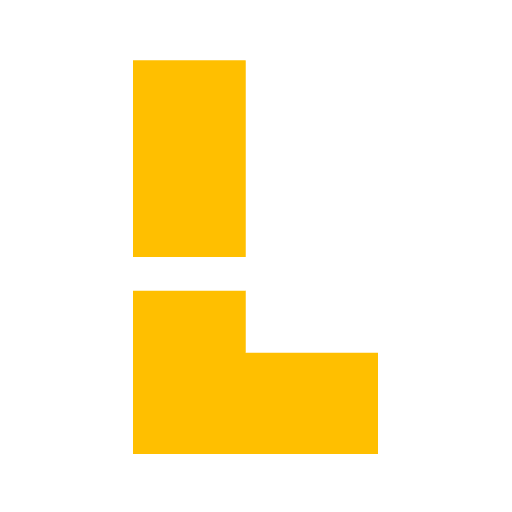
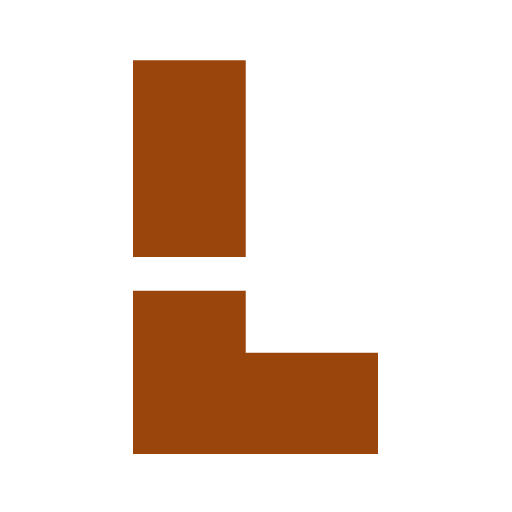
feat: 카테고리 필터, 토스트 알림, 404 페이지, 컴포넌트 분리

Changed region(s): [[0.25, 0.5625, 0.75, 0.9062], [0.25, 0.0938, 0.5, 0.5]]

diff --git a/src/pages/Home.jsx b/src/pages/Home.jsx
@@ -1,24 +1,35 @@
-import { useState, useEffect } from "react";
-import { Link } from "react-router-dom";
-import { getProducts } from "../api/productApi";
-import useCartStore from "../store/cartStore";
+import { useState } from "react";
+import { motion, AnimatePresence } from "framer-motion";
 import SkeletonCard from "../components/SkeletonCard";
 import Header from "../components/Header";
 import Footer from "../components/Footer";
 import Hero from "../components/Hero";
+import ProductCard from "../components/ProductCard";
+import useProducts from "../hooks/useProducts";
 
 function Home() {
-  const [products, setProducts] = useState([]);
-  const [loading, setLoading] = useState(true);
-  const [error, setError] = useState(null);
-  const { addItem } = useCartStore();
+  const { products, loading, error } = useProducts();
+  const [activeCategory, setActiveCategory] = useState("전체");
+  const CATEGORIES = [
+    "전체",
+    "cushion",
+    "vase",
+    "candle",
+    "storage",
+    "tray",
+    "pot",
+    "mirror",
+    "furniture",
+    "flower",
+    "coaster",
+    "wall",
+    "textile",
+  ];
 
-  useEffect(() => {
-    getProducts()
-      .then((data) => setProducts(data))
-      .catch((err) => setError(err.message))
-      .finally(() => setLoading(false));
-  }, []);
+  const filtered =
+    activeCategory === "전체"
+      ? products
+      : products.filter((p) => p.category === activeCategory);
 
   if (loading)
     return (
@@ -52,36 +63,48 @@ function Home() {
 
       <Hero />
 
-      <section className="px-6 pb-16">
-        <div className="grid grid-cols-2 md:grid-cols-3 gap-6">
-          {products.map((product) => (
-            <div key={product.id} className="group">
-              <Link to={`/product/${product.id}`}>
-                <div className="overflow-hidden rounded-xl bg-gray-50 dark:bg-dark-card aspect-square mb-3">
-                  <img
-                    src={product.image}
-                    alt={product.name}
-                    className="w-full h-full object-cover group-hover:scale-105 transition-transform duration-300"
-                  />
-                </div>
-                <p className="text-md font-medium dark:text-white">
-                  {product.name}
-                </p>
-                <p className="text-md text-gray-400 mt-1">
-                  {product.price.toLocaleString()}원
-                </p>
-              </Link>
-              <button
-                onClick={() => addItem(product)}
-                className="mt-2 w-full text-xs border border-black dark:border-white dark:text-white py-2 rounded-lg hover:bg-black hover:text-white dark:hover:bg-white dark:hover:text-black transition-colors duration-200"
-              >
-                장바구니 담기
-              </button>
-            </div>
+      <section className="px-6 mb-6">
+        <div className="flex gap-2 overflow-x-auto pb-2 scrollbar-hide">
+          {CATEGORIES.map((cat) => (
+            <button
+              key={cat}
+              onClick={() => setActiveCategory(cat)}
+              className={`flex-shrink-0 text-xs px-4 py-2 rounded-full border transition-colors duration-200
+                ${
+                  activeCategory === cat
+                    ? "bg-secondary border-secondary text-black font-medium"
+                    : "border-gray-200 dark:border-gray-700 text-gray-400 hover:border-black dark:hover:border-white hover:text-black dark:hover:text-white"
+                }`}
+            >
+              {cat}
+            </button>
           ))}
         </div>
       </section>
 
+      <section className="px-6 pb-16 flex-1">
+        {filtered.length === 0 ? (
+          <div className="text-center py-20">
+            <p className="text-gray-400 text-sm">해당 카테고리 상품이 없어요</p>
+          </div>
+        ) : (
+          // 상품 그리드 부분 교체
+          <AnimatePresence mode="wait">
+            <motion.div
+              key={activeCategory}
+              initial={{ opacity: 0, y: 10 }}
+              animate={{ opacity: 1, y: 0 }}
+              exit={{ opacity: 0, y: -10 }}
+              transition={{ duration: 0.2 }}
+              className="grid grid-cols-2 md:grid-cols-3 gap-6"
+            >
+              {filtered.map((product) => (
+                <ProductCard key={product.id} product={product} />
+              ))}
+            </motion.div>
+          </AnimatePresence>
+        )}
+      </section>
       <Footer />
     </div>
   );

diff --git a/src/components/ProductCard.jsx b/src/components/ProductCard.jsx
@@ -1,0 +1,47 @@
+import { Link } from "react-router-dom";
+import useCartStore from "../store/cartStore";
+import useToastStore from "../store/toastStore";
+
+function ProductCard({ product }) {
+  const { addItem, items } = useCartStore();
+  const { showToast } = useToastStore();
+
+  const isInCart = items.some((item) => item.id === product.id);
+
+  return (
+    <div className="group">
+      <Link to={`/product/${product.id}`}>
+        <div className="overflow-hidden rounded-xl bg-gray-50 dark:bg-dark-card aspect-square mb-3">
+          <img
+            src={product.image}
+            alt={product.name}
+            className="w-full h-full object-cover group-hover:scale-105 transition-transform duration-300"
+          />
+        </div>
+        <p className="text-md mb-3font-medium dark:text-white mb-2">
+          {product.name}
+        </p>
+        <p className="text-md text-gray-400">
+          {product.price.toLocaleString()}원
+        </p>
+      </Link>
+      <button
+        onClick={() => {
+          if (isInCart) return;
+          addItem(product);
+          showToast(`${product.name} 장바구니에 담겼어요 🛒`);
+        }}
+        className={`mt-2 w-full text-sm py-2 rounded-lg border transition-colors duration-200
+          ${
+            isInCart
+              ? "border-secondary bg-secondary text-black font-medium cursor-default"
+              : "border-black dark:border-white dark:text-white hover:bg-black hover:text-white dark:hover:bg-white dark:hover:text-black"
+          }`}
+      >
+        {isInCart ? "✓ 이미 담겼어요" : "장바구니 담기"}
+      </button>
+    </div>
+  );
+}
+
+export default ProductCard;

diff --git a/src/pages/ProductDetail.jsx b/src/pages/ProductDetail.jsx
@@ -4,6 +4,7 @@ import { getProductById } from "../api/productApi";
 import useCartStore from "../store/cartStore";
 import Header from "../components/Header";
 import Footer from "../components/Footer";
+import useToastStore from "../store/toastStore";
 
 function ProductDetail() {
   const { id } = useParams();
@@ -11,6 +12,7 @@ function ProductDetail() {
   const [loading, setLoading] = useState(true);
   const [error, setError] = useState(null);
   const { addItem } = useCartStore();
+  const { showToast } = useToastStore();
 
   useEffect(() => {
     getProductById(id)
@@ -68,7 +70,10 @@ function ProductDetail() {
         </p>
 
         <button
-          onClick={() => addItem(product)}
+          onClick={() => {
+            addItem(product);
+            showToast(`${product.name} 장바구니에 담겼어요 🛒`);
+          }}
           className="w-full bg-black dark:bg-white dark:text-black text-white py-4 rounded-xl text-sm font-medium hover:bg-gray-800 dark:hover:bg-gray-200 transition-colors duration-200"
         >
           장바구니 담기

diff --git a/src/pages/NotFound.jsx b/src/pages/NotFound.jsx
@@ -1,0 +1,29 @@
+import { Link } from "react-router-dom";
+import Header from "../components/Header";
+import Footer from "../components/Footer";
+
+function NotFound() {
+  return (
+    <div className="min-h-screen bg-white dark:bg-dark-bg flex flex-col">
+      <Header />
+      <div className="flex-1 flex flex-col items-center justify-center px-6 text-center">
+        <p className="text-8xl font-bold text-brand mb-4">404</p>
+        <h2 className="text-xl font-bold mb-2 dark:text-white">
+          페이지를 찾을 수 없어요
+        </h2>
+        <p className="text-gray-400 text-sm mb-10">
+          주소가 잘못됐거나 존재하지 않는 페이지예요
+        </p>
+        <Link
+          to="/"
+          className="bg-black dark:bg-white dark:text-black text-white px-8 py-4 rounded-xl text-sm font-medium hover:bg-gray-800 dark:hover:bg-gray-200 transition-colors duration-200"
+        >
+          홈으로 돌아가기
+        </Link>
+      </div>
+      <Footer />
+    </div>
+  );
+}
+
+export default NotFound;

diff --git a/src/App.jsx b/src/App.jsx
@@ -3,8 +3,13 @@ import Home from "./pages/Home";
 import ProductDetail from "./pages/ProductDetail";
 import Cart from "./pages/Cart";
 import OrderComplete from "./pages/OrderComplete";
+import Toast from "./components/Toast";
+import useToastStore from "./store/toastStore";
+import NotFound from "./pages/NotFound";
 
 function App() {
+  const { message, hideToast } = useToastStore();
+
   return (
     <BrowserRouter>
       <Routes>
@@ -12,7 +17,10 @@ function App() {
         <Route path="/product/:id" element={<ProductDetail />} />
         <Route path="/cart" element={<Cart />} />
         <Route path="/order-complete" element={<OrderComplete />} />
+        <Route path="*" element={<NotFound />} />
       </Routes>
+
+      {message && <Toast message={message} onClose={hideToast} />}
     </BrowserRouter>
   );
 }

diff --git a/src/hooks/useProducts.js b/src/hooks/useProducts.js
@@ -1,0 +1,19 @@
+import { useState, useEffect } from "react";
+import { getProducts } from "../api/productApi";
+
+function useProducts() {
+  const [products, setProducts] = useState([]);
+  const [loading, setLoading] = useState(true);
+  const [error, setError] = useState(null);
+
+  useEffect(() => {
+    getProducts()
+      .then((data) => setProducts(data))
+      .catch((err) => setError(err.message))
+      .finally(() => setLoading(false));
+  }, []);
+
+  return { products, loading, error };
+}
+
+export default useProducts;

diff --git a/src/components/Toast.jsx b/src/components/Toast.jsx
@@ -1,0 +1,18 @@
+import { useEffect } from "react";
+
+function Toast({ message, onClose }) {
+  useEffect(() => {
+    const timer = setTimeout(onClose, 2000);
+    return () => clearTimeout(timer);
+  }, [onClose]);
+
+  return (
+    <div className="fixed bottom-6 left-1/2 -translate-x-1/2 z-50 animate-fade-in">
+      <div className="bg-primary dark:bg-white text-white dark:text-black text-sm px-5 py-3 rounded-full shadow-lg whitespace-nowrap">
+        {message}
+      </div>
+    </div>
+  );
+}
+
+export default Toast;

diff --git a/tailwind.config.js b/tailwind.config.js
@@ -4,10 +4,21 @@ export default {
   theme: {
     extend: {
       colors: {
+        primary: "#9A450C",
+        secondary: "#BCAAA4",
         dark: {
           bg: "#0f1117",
           card: "#1a1d27",
         },
+      },
+      keyframes: {
+        "fade-in": {
+          "0%": { opacity: "0", transform: "translate(-50%, 10px)" },
+          "100%": { opacity: "1", transform: "translate(-50%, 0)" },
+        },
+      },
+      animation: {
+        "fade-in": "fade-in 0.2s ease-out",
       },
     },
   },

diff --git a/src/store/toastStore.js b/src/store/toastStore.js
@@ -1,0 +1,9 @@
+import { create } from "zustand";
+
+const useToastStore = create((set) => ({
+  message: null,
+  showToast: (message) => set({ message }),
+  hideToast: () => set({ message: null }),
+}));
+
+export default useToastStore;
